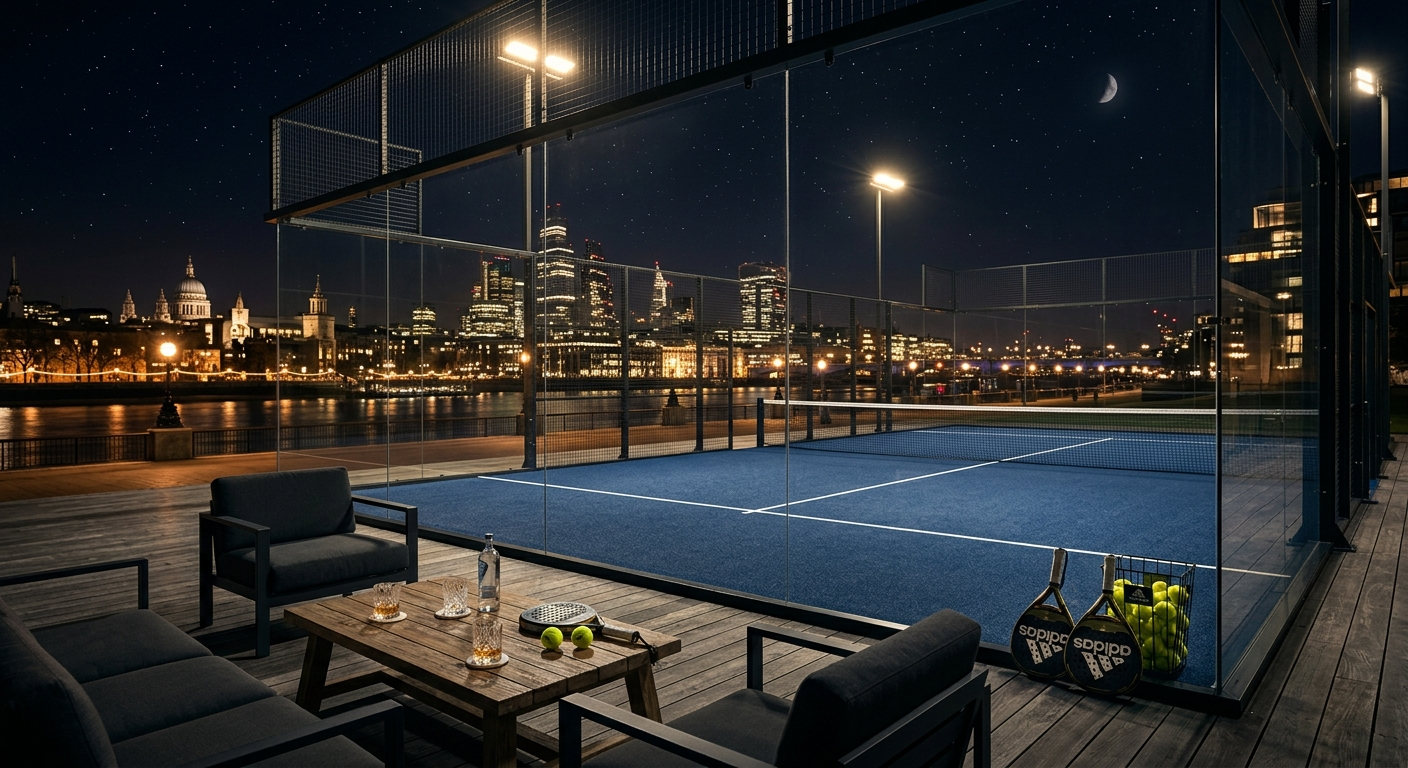
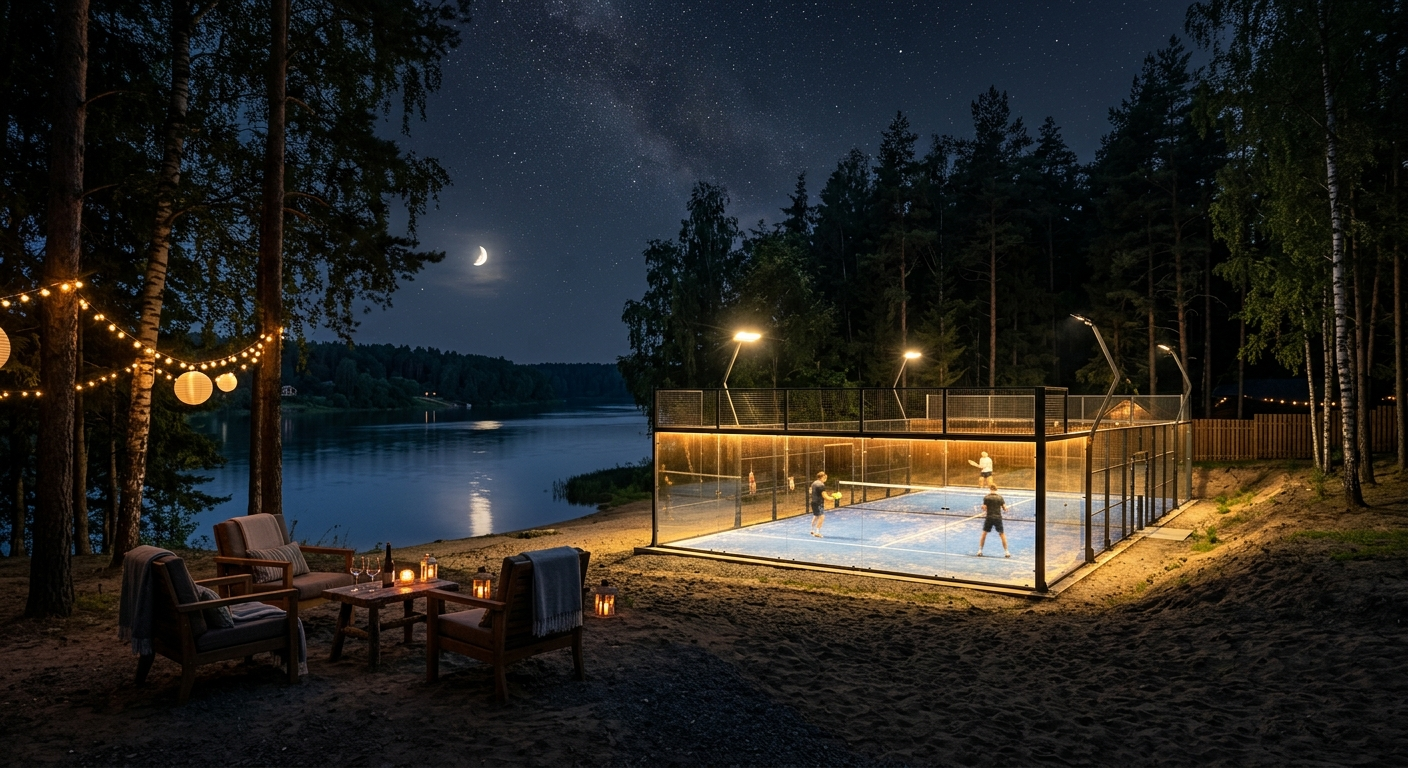
feat: regenerated court photos in same location, fixed Yandex Map coords, bot link
All courts: same DIP beach location (pine forest, river, no city).
Map: exact coords 55.7275, 36.8730. Route link with auto navigation.

diff --git a/index.html b/index.html
@@ -1478,7 +1478,7 @@
                     </div>
 
                     <div class="reveal">
-                        <a href="https://yandex.ru/maps/" target="_blank" rel="noopener" class="btn-dark">
+                        <a href="https://yandex.ru/maps/?rtext=~55.7275,36.8730&rtt=auto&z=14" target="_blank" rel="noopener" class="btn-dark">
                             Построить маршрут
                             <svg width="16" height="16" viewBox="0 0 24 24" fill="none" stroke="currentColor" stroke-width="2" stroke-linecap="round">
                                 <path d="M18 13v6a2 2 0 0 1-2 2H5a2 2 0 0 1-2-2V8a2 2 0 0 1 2-2h6M15 3h6v6M10 14L21 3"/>
@@ -1490,7 +1490,7 @@
                 <!-- Right: Map Placeholder -->
                 <div class="reveal-right">
                     <div class="aspect-[4/3] rounded-lg overflow-hidden shadow-lg">
-                        <iframe src="https://yandex.ru/map-widget/v1/?ll=36.8647%2C55.7297&z=14&l=sat%2Cskl&pt=36.8647%2C55.7297%2Cpm2gnm" width="100%" height="100%" frameborder="0" style="border:0; border-radius: 8px;" allowfullscreen></iframe>
+                        <iframe src="https://yandex.ru/map-widget/v1/?ll=36.8730%2C55.7275&z=15&l=sat%2Cskl&pt=36.8730%2C55.7275%2Cpm2gnm" width="100%" height="100%" frameborder="0" style="border:0; border-radius: 8px;" allowfullscreen></iframe>
                     </div>
                 </div>
             </div>
